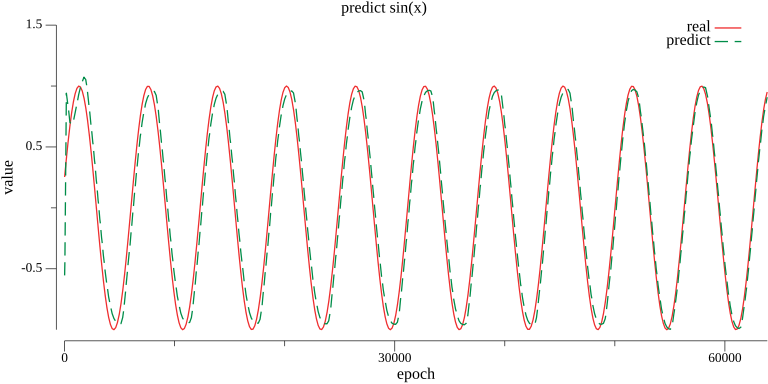
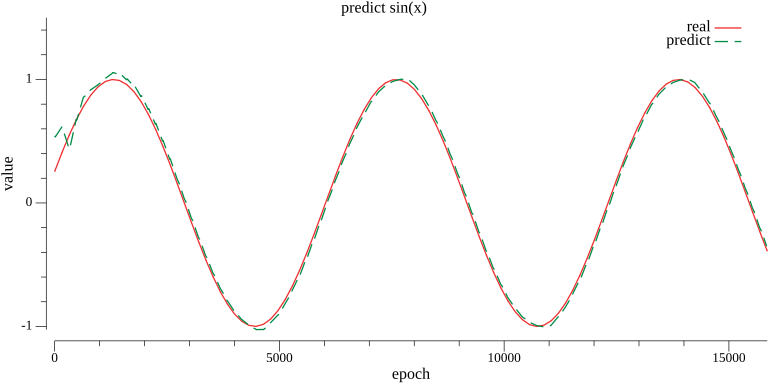
修改模型定义

diff --git a/example/sin_attention/main.go b/example/sin_attention/main.go
@@ -19,13 +19,13 @@ import (
 )
 
 const lr = 0.001
-const epoch = 4000
+const epoch = 1000
 const batchSize = 16
 const seqSize = 8
 const dims = 8
 const heads = 4
 const unitSize = seqSize * dims
-const transformerSize = 2
+const transformerSize = 1
 
 func main() {
 	// f, err := os.Create("cpu.pprof")
@@ -135,10 +135,10 @@ func forwardTransformer(i int, x *tensor.Tensor, train bool) (*tensor.Tensor, in
 }
 
 func forward(x *tensor.Tensor, train bool) *tensor.Tensor {
-	var y *tensor.Tensor
+	y := x
 	i := 0
 	for j := 0; j < transformerSize; j++ {
-		y, i = forwardTransformer(i, x, train)
+		y, i = forwardTransformer(i, y, train)
 	}
 	y = layers[i].Forward(y, train)   // relu
 	y = layers[i+1].Forward(y, train) // output

diff --git a/example/couplet/model.go b/example/couplet/model.go
@@ -319,9 +319,8 @@ func initModel(vocabSize int) {
 var dropout = layer.NewDropout(0.5)
 
 func forwardTransformer(i int, x *tensor.Tensor, train bool) (*tensor.Tensor, int) {
-	srcX := x
 	y := layers[i].(*layer.SelfAttention).ForwardQKV(x, x, x, true, train)
-	y = y.Add(srcX)
+	y = y.Add(x)
 	// if train {
 	// 	y = dropout.Forward(y, true)
 	// }
